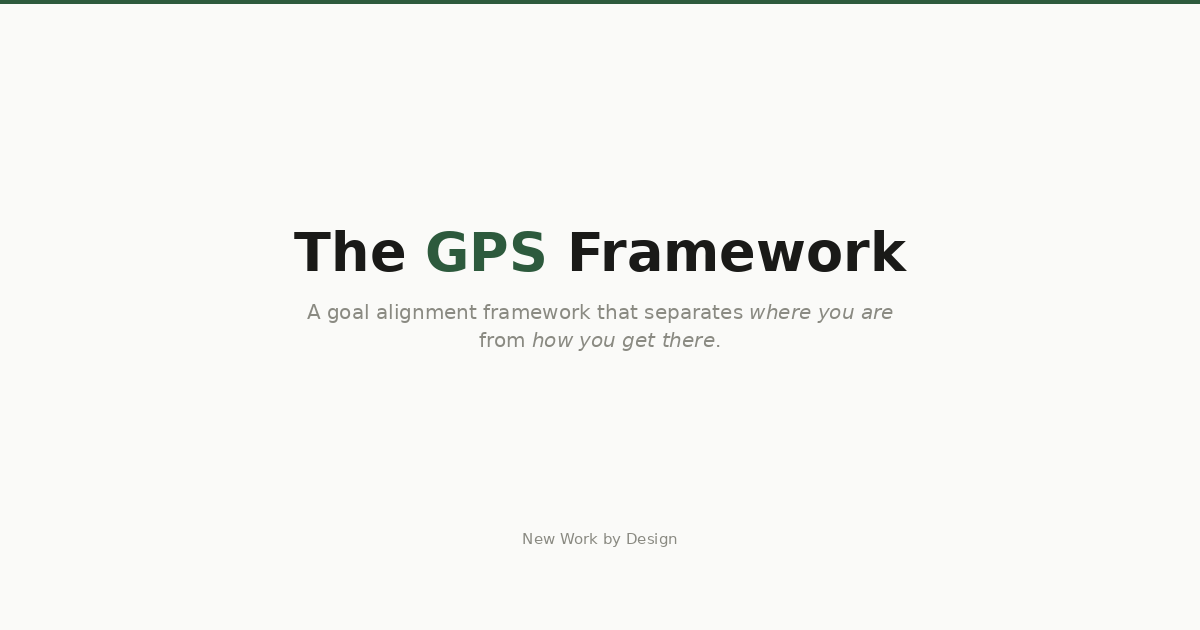
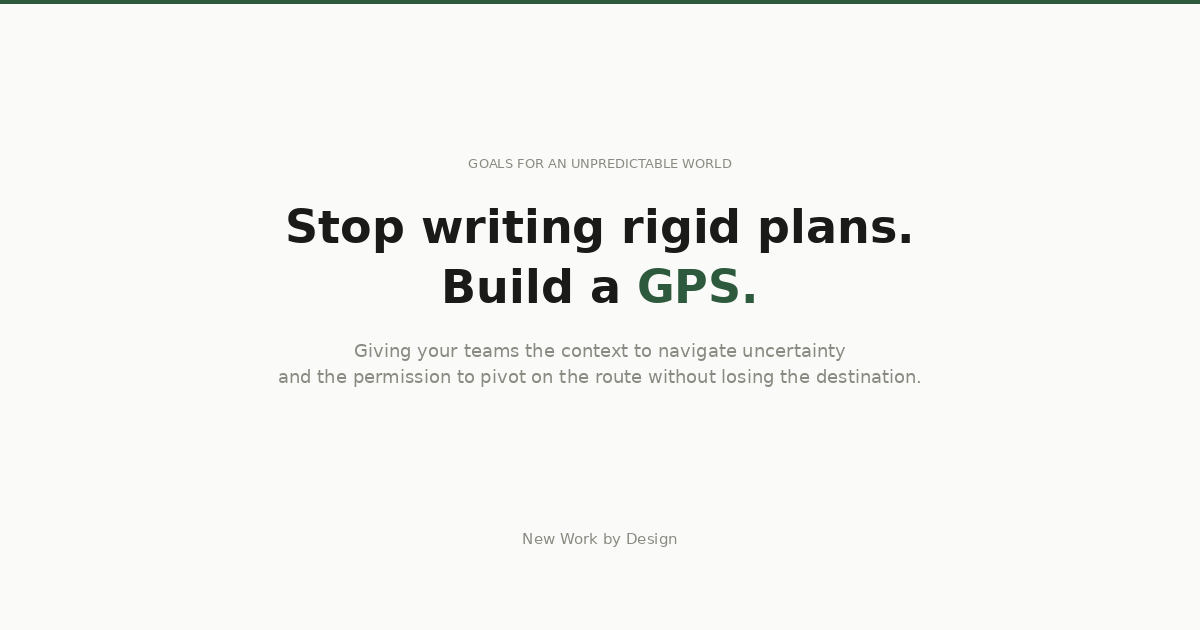
Shorten hero section and adjust og image accordingly.

Changed region(s): [[0.2158, 0.3317, 0.7708, 0.6333], [0.4008, 0.2413, 0.6167, 0.2714]]

diff --git a/index.html b/index.html
@@ -922,7 +922,7 @@
   <div class="hero-inner">
     <div class="hero-eyebrow">Goals for an unpredictable world</div>
 	  <h1>Stop writing rigid plans. <span>Build a GPS.</span></h1>
-	  <p class="hero-desc">The GPS Framework separates your destination from your route. By decoupling <strong>Goal</strong>, <strong>Positioning</strong>, and <strong>Strategy</strong>, you give your teams the tools to navigate uncertainty and the explicit <strong>permission to pivot</strong>.</p>
+	  <p class="hero-desc">Giving your teams the context to navigate uncertainty and the permission to pivot on the route without losing the destination.</p>
 	  <div class="hero-cta">
 		  <a href="#overview" class="cta-link">
 		    See how it scales 
